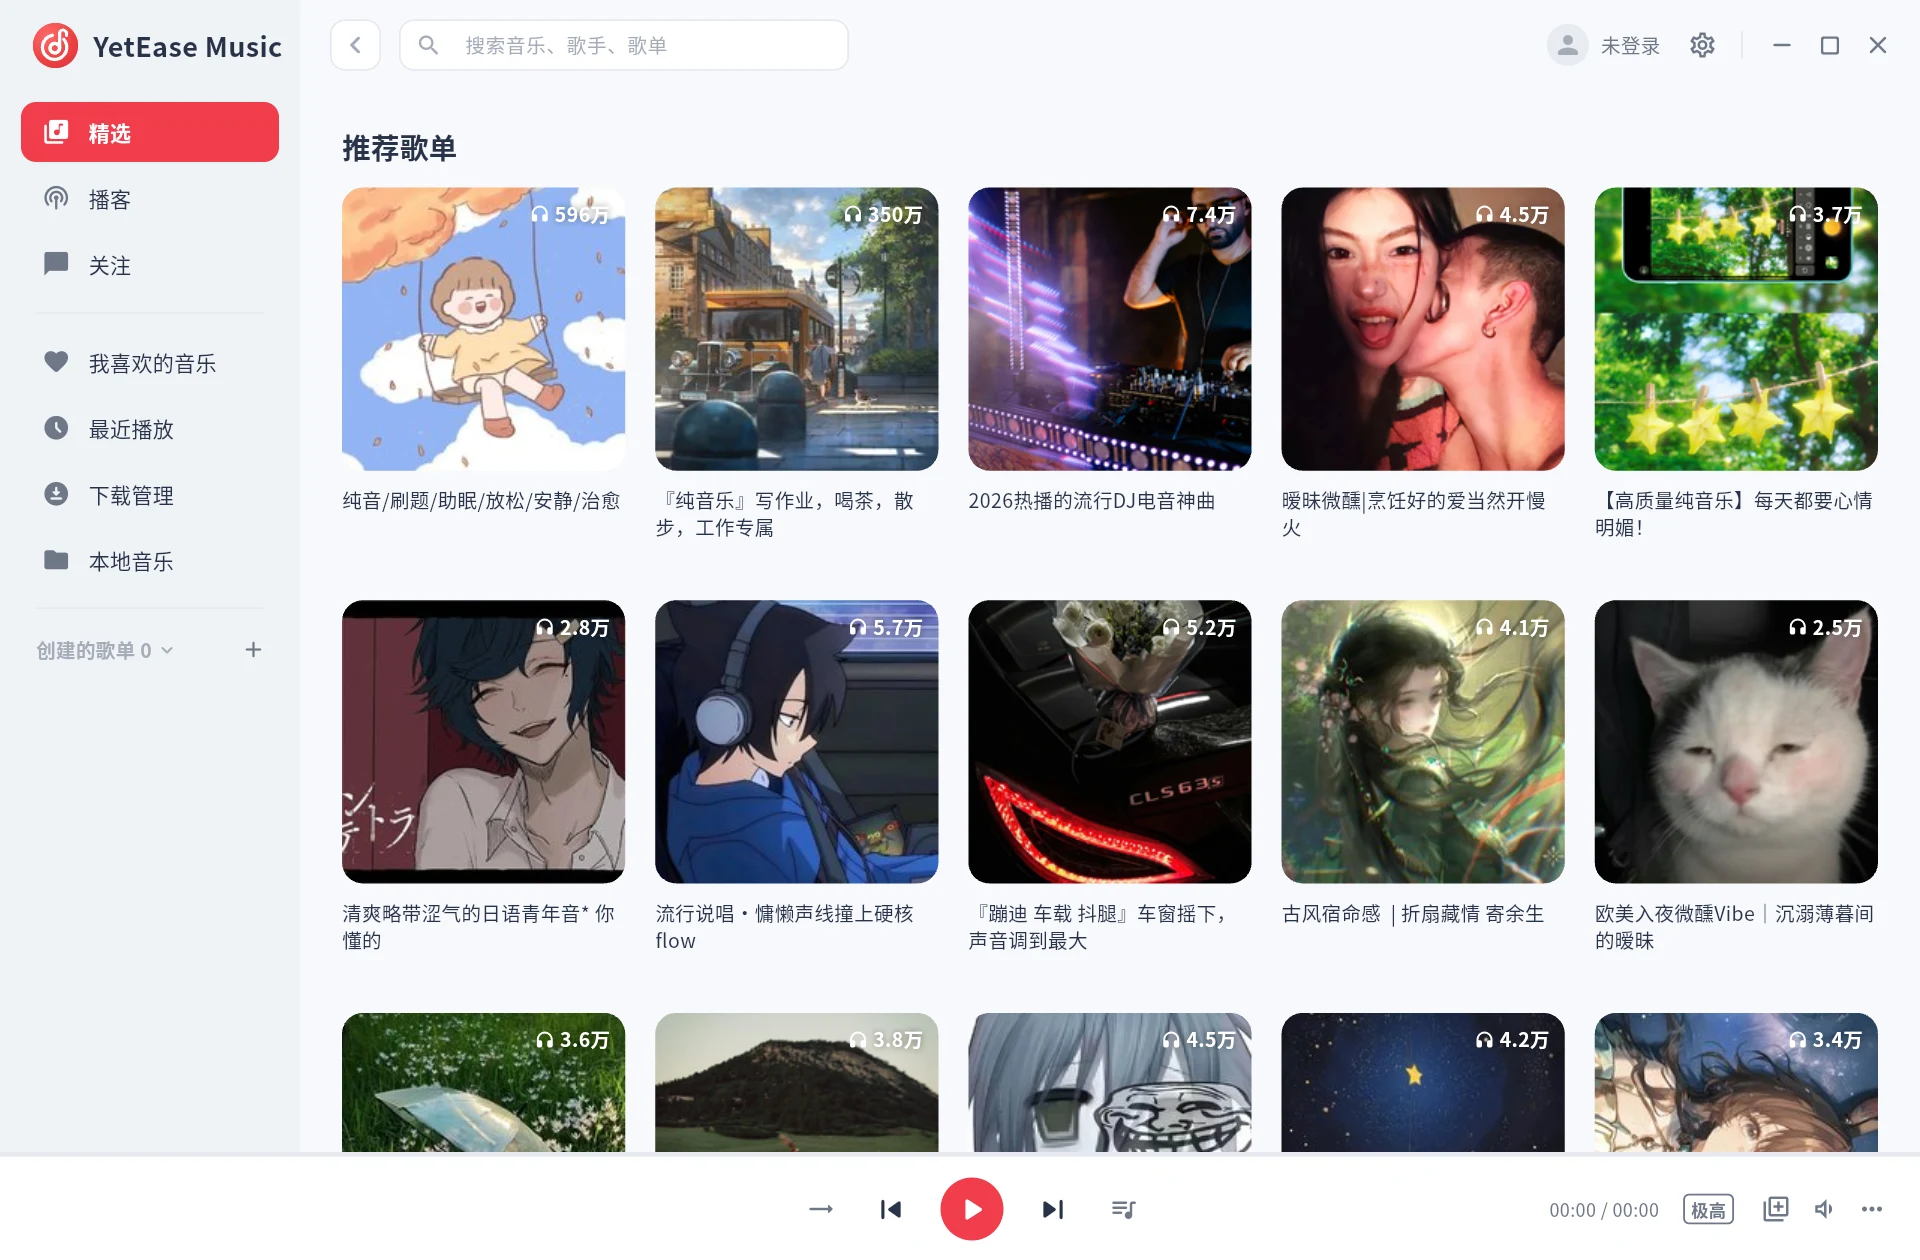
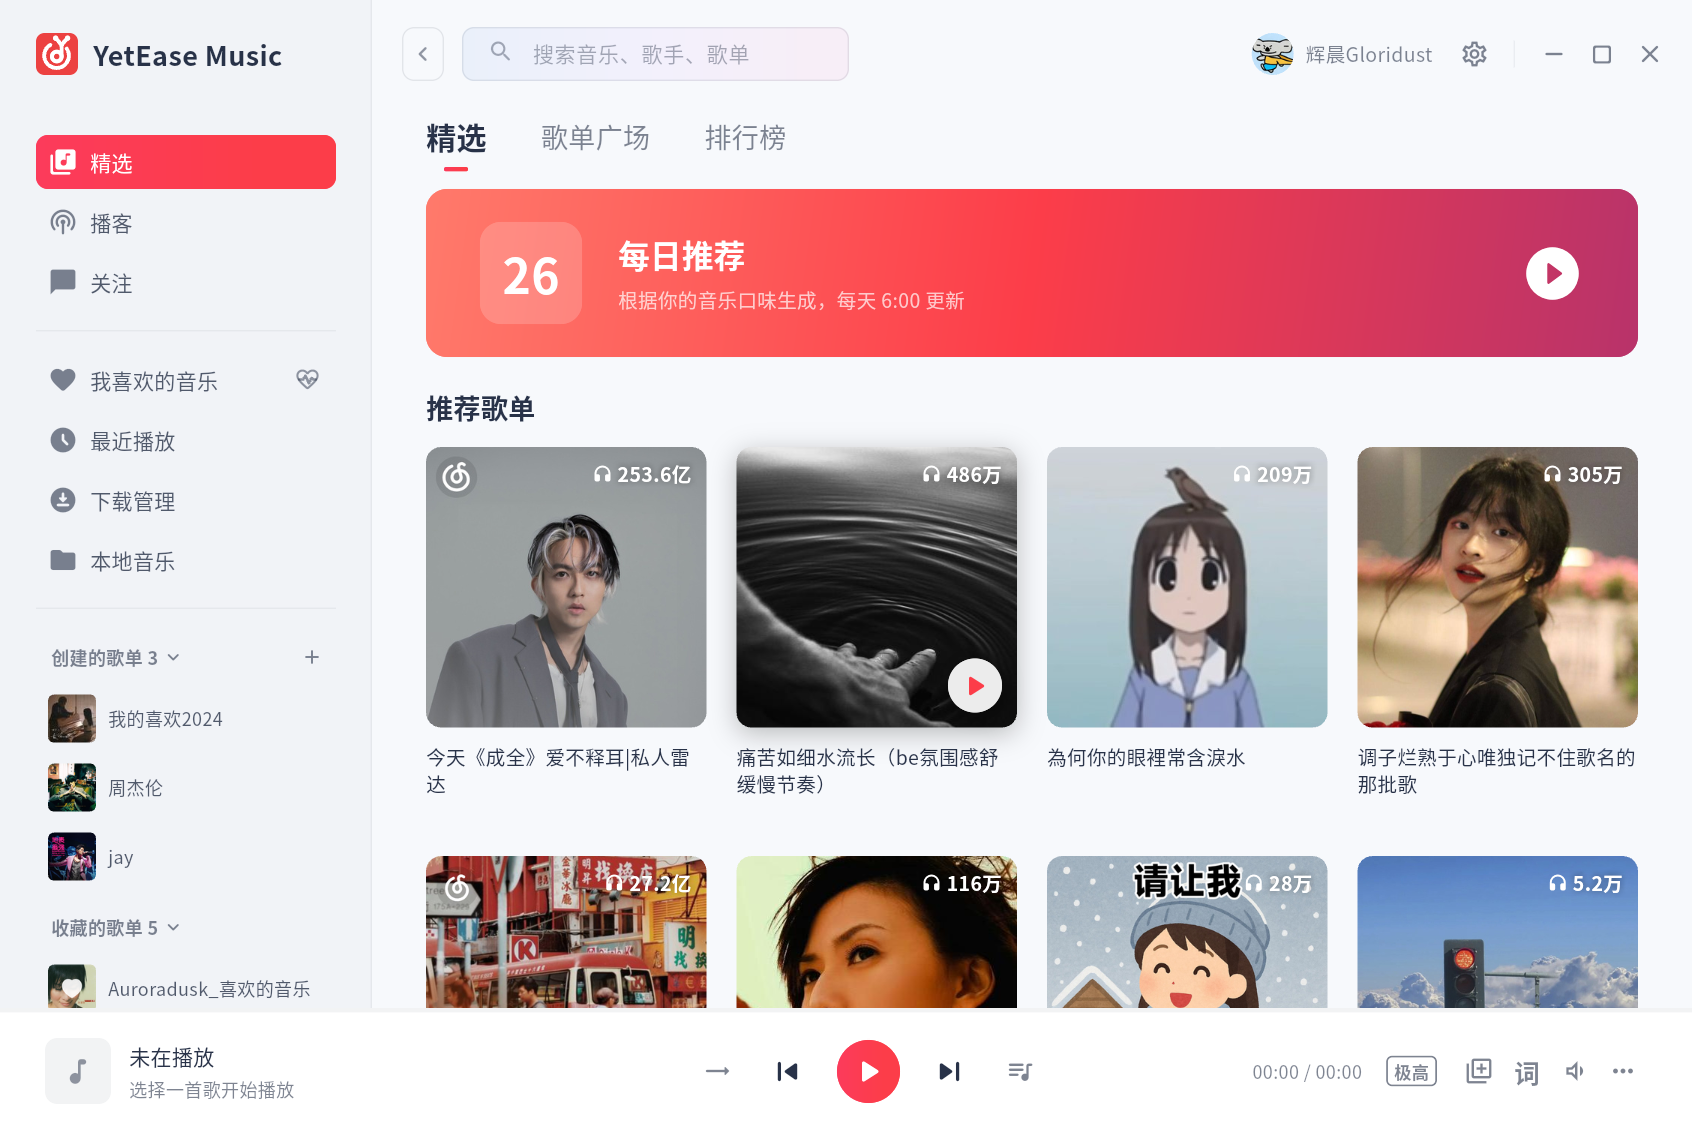
0.2.7：新图标与界面向官方新版看齐；更新截图

diff --git a/doc/release-notes/v0.2.7.md b/doc/release-notes/v0.2.7.md
@@ -1,0 +1,30 @@
+YetEase Music 0.2.7：新图标，界面细节向官方新版看齐。
+
+## 改进
+
+- **新的应用图标**：扁平的红色圆角方形，里面是一只蜗牛，分叉的触须就是 YetEase 的「Y」。各平台图标统一重新生成，Linux 额外提供矢量图标，Android 改为自适应图标（[#11](https://github.com/Gloridust/YetEaseMusic/issues/11)）
+- **界面细节对照官方新版网页播放器调整**：
+  - 灰色统一改为同一种蓝灰色叠不同透明度，选中项、主按钮、播放按钮改用官方的红色渐变
+  - 侧栏导航和歌单项的尺寸、间距、字号与官方一致；鼠标悬停的底色即时出现、即时消失，快速划过时不再拖出残影
+  - 歌曲列表行更高、封面更大，悬停时整行变成白色圆角卡片
+  - 播放栏加高，播放按钮悬停时轻微放大；顶栏搜索框换成淡彩渐变底
+  - 歌单卡片悬停改为浮起一层阴影，不再放大
+  - 页面标题、分区标题的字重和字号与官方一致
+- 歌单页窗口较窄时，「搜索歌单内歌曲」输入框会自动缩短，不再被挤出窗口
+
+## 下载
+
+| 平台 | 文件 |
+|---|---|
+| Ubuntu / Debian | `yetease-music_0.2.7_amd64.deb` |
+| 任意 Linux（免安装） | `yetease-music-0.2.7-x86_64.AppImage` |
+| 其他 Linux | `yetease-music-0.2.7-linux-x86_64.tar.gz`（解压后运行 `./install.sh`） |
+| Windows 10 / 11 | `yetease-music-0.2.7-windows-x64-setup.exe`，免安装版为 `…-portable.zip` |
+| macOS | `yetease-music-0.2.7-macos-universal.dmg`（未签名，首次打开请右键选「打开」） |
+| Android | `yetease-music-0.2.7-android-universal.apk` |
+
+完整功能介绍见 [0.2.0](https://github.com/Gloridust/YetEaseMusic/releases/tag/v0.2.0)。
+
+---
+
+YetEase Music 0.2.7 brings a new flat app icon – a snail whose forked antennae form the "Y" of YetEase – and aligns the interface with NetEase's new official web player: a unified blue-grey palette with the official red gradient, sidebar items with official sizing and instant hover feedback, taller song rows that turn into white cards on hover, a taller player bar with a play button that grows slightly on hover, a gradient search box, and playlist cards that lift with a shadow instead of zooming. The in-playlist search box now shrinks in narrow windows instead of overflowing.
